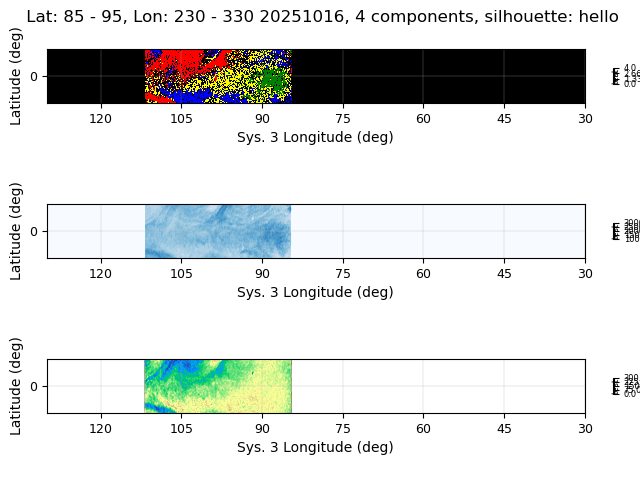
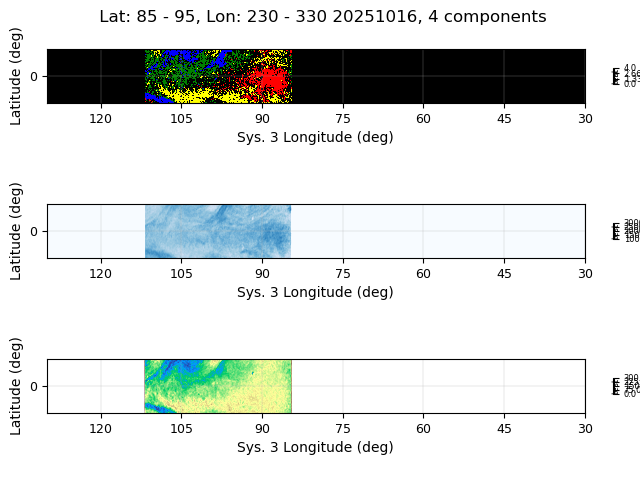
--ammend

Changed region(s): [[0.1562, 0.0, 0.9688, 0.0625], [0.2188, 0.0938, 0.4688, 0.2188], [0.0312, 0.0, 0.125, 0.0625]]

diff --git a/scripts/processes.py b/scripts/processes.py
@@ -20,30 +20,33 @@ def output_cluster_map_and_plot(date, keywords, param_ranges,
     sil_score = "hello"
     #str(round(silhouette_score(input_arr, pred), 3))
     #colors = np.random.rand(n_comp, 3)
-    colors =["red", "green", "blue", "yellow"]
-    cmap = ListedColormap(colors)
+    colors =["red", "green", "blue", "yellow", "orange", "pink"]
+    cmap = ListedColormap(colors[:n_comp])
     print("colors")
     print(colors)
 
     fig, axis = pl.subplots(2, 1)
     MP.create_cluster_map(axis[0], n_comp, pred, input_arr, subset_shape, latRng, lngRng, cmap, cm_num)
     PL.create_cluster_plot(axis[1],  keywords, input_arr, pred,  n_comp, cov_type, latRng, lngRng, cmap, cm_num)
-    fig.suptitle(f' Lat: {latRng[0]} - {latRng[1]}, Lon: {lngRng[0]} - {lngRng[1]} {date}, {n_comp} components, silhouette: {sil_score}')
+    fig.suptitle(f' Lat: {latRng[0]} - {latRng[1]}, Lon: {lngRng[0]} - {lngRng[1]} {date}, {n_comp} components')
     lat_lon_str = f'{latRng[0]}-{latRng[1]}_{lngRng[0]}-{lngRng[1]}'
     fig.savefig(f'{config["output"]}/{date}_{lat_lon_str}_{n_comp}_map_and_plot.png')
+
+
+def output_cluster_and_plots
 
 def output_cluster_map(date, keywords, param_ranges, 
                            latRng = [65, 115], lngRng = [0, 50], 
                             n_comp = 4, cov_type = "full", cm_num = 3):
     [input_arr, subset_shape] = pre.get_input_array(keywords, param_ranges, latRng, lngRng, cm_num)
-    pred = CL.create_clusters(input_arr[:, [0,1]], cov_type, n_comp)
+    pred = CL.create_clusters(input_arr[:, [0,1]], cov_type, n_comp, config["soft_clustering"])
     sil_score = str(round(silhouette_score(input_arr, pred), 3))
     #colors = np.random.rand(n_comp, 3)
-    colors =["red", "green", "blue", "yellow"]
-    cmap = ListedColormap(colors)
+    colors =["red", "green", "blue", "yellow", "orange", "pink"]
+    cmap = ListedColormap(colors[:n_comp])
     fig, axis = pl.subplots(1, 1)
     MP.create_cluster_map(axis, n_comp, pred, input_arr, subset_shape, latRng, lngRng, cmap, cm_num)
-    fig.suptitle(f' Lat: {latRng[0]} - {latRng[1]}, Lon: {lngRng[0]} - {lngRng[1]} {date}, {n_comp} components, silhouette: {sil_score}')
+    fig.suptitle(f' Lat: {latRng[0]} - {latRng[1]}, Lon: {lngRng[0]} - {lngRng[1]} {date}, {n_comp} components')
     lat_lon_str = f'{latRng[0]}-{latRng[1]}_{lngRng[0]}-{lngRng[1]}'
     fig.savefig(f'{config["output"]}/cluster_maps/spatial_map_{date}_{lat_lon_str}_{n_comp}.png')
 
@@ -54,15 +57,15 @@ def output_cluster_plot(date, keywords, param_ranges,
     
    
     [input_arr, subset_shape] = pre.get_input_array(keywords, param_ranges, latRng, lngRng, cm_num)
-    pred = CL.create_clusters(input_arr[:, [0,1]], cov_type, n_comp)
+    pred = CL.create_clusters(input_arr[:, [0,1]], cov_type, n_comp, config["soft_clustering"])
     print(pred)
     sil_score = str(round(silhouette_score(input_arr, pred), 3))
     #colors = np.random.rand(n_comp, 3)
     colors = ["red", "green", "blue", "yellow"]
-    cmap = ListedColormap(colors)
+    cmap = ListedColormap(colors[:n_comp])
     fig, axis = pl.subplots(1, 1)
     PL.create_cluster_plot(axis, keywords, input_arr, pred,  n_comp, cov_type, latRng, lngRng, cmap, cm_num)
-    fig.suptitle(f' Lat: {latRng[0]} - {latRng[1]}, Lon: {lngRng[0]} - {lngRng[1]} {date}, {n_comp} components, silhouette: {sil_score}')
+    fig.suptitle(f' Lat: {latRng[0]} - {latRng[1]}, Lon: {lngRng[0]} - {lngRng[1]} {date}, {n_comp} components')
     lat_lon_str = f'{latRng[0]}-{latRng[1]}_{lngRng[0]}-{lngRng[1]}'
     fig.savefig(f'{config["output"]}/cluster_plots/clusters_{date}_{lat_lon_str}_{cov_type}_{n_comp}_.png')
 
@@ -80,21 +83,20 @@ def create_map_comparison(date, keywords, param_ranges,
     sil_score = "hello"
 
     print("computed sil score")
-    colors = ["red", "green", "blue", "yellow"]
-    cmap = ListedColormap(colors)
+    colors =["red", "green", "blue", "yellow", "orange", "pink"]
+    cmap = ListedColormap(colors[: n_comp])
     print("start fig")
     fig, axis = pl.subplots(3, 1, constrained_layout = True)
     fig.tight_layout()
     cloud_map = pre.get_patch("PCld", latRng, lngRng)
     amm_map = pre.get_patch("NH3", latRng, lngRng)
-    print("start cluster map")
+    print("plot cluster map")
     MP.create_cluster_map(axis[0], n_comp, pred, input_arr, subset_shape, latRng, lngRng, cmap, cm_num, fig, True)
-    print("finished cluster map")
     MP.plot_patch(cloud_map, latRng, lngRng, "Blues", axis[1], 1000, 3000,  "Cloud Pressure", cm_num, fig, True)
     print("plot first patch")
     MP.plot_patch(amm_map, latRng, lngRng, "terrain_r", axis[2], 0, 300, "Ammonia", cm_num, fig, True)
     print("plot second patch")
-    fig.suptitle(f' Lat: {latRng[0]} - {latRng[1]}, Lon: {lngRng[0]} - {lngRng[1]} {date}, {n_comp} components, silhouette: {sil_score}')
+    fig.suptitle(f' Lat: {latRng[0]} - {latRng[1]}, Lon: {lngRng[0]} - {lngRng[1]} {date}, {n_comp} components')
     lat_lon_str = f'{latRng[0]}-{latRng[1]}_{lngRng[0]}-{lngRng[1]}'
     fig.savefig(f'{config["output"]}/{date}_{lat_lon_str}_{n_comp}_map_comparison.png')
     
@@ -102,8 +104,8 @@ def create_map_comparison(date, keywords, param_ranges,
 
 #output_cluster_map("20251214", ["NH3", "PCld"], [[0, 300], [1000, 3000]], 5)
 #get correct filters
-create_map_comparison("20251016", ["NH3", "PCld", "AOI", "CI"], [[100, 300], [1500,  2500], [0, 1], [0, 1]])#
-#output_cluster_map_and_plot("20251016", ["NH3", "PCld", "AOI", "CI"], [[100, 300], [1500,  2500], [0, 1], [0, 1]])
+#create_map_comparison("20251016", ["NH3", "PCld", "AOI", "CI"], [[100, 300], [1500,  2500], [0, 1], [0, 1]])#
+output_cluster_map_and_plot("20251016", ["NH3", "PCld", "AOI", "CI"], [[100, 300], [1500,  2500], [0, 1], [0, 1]], [85, 95], [230,330], 5)
 
 
 #output_cluster_map_and_plot("20251214", ["NH3", "PCld"], [[0, 300], [1000, 3000]], 5)

diff --git a/scripts/preprocessing/preprocessing.py b/scripts/preprocessing/preprocessing.py
@@ -104,7 +104,6 @@ def get_parameter_2d_array(keyword_arr):
 
     return radiances_arr'''
     radiances = get_radiances(file_name_arr)
-    print(radiances)
     return radiances
 
 def get_map_shape(keyword, latLims, longLims):
@@ -262,8 +261,7 @@ def get_input_array(keywords, param_ranges,
     #pix_arr = np.flipud(pix_arr)
     pix_arr = get_mapped_pix_arr(pix_arr)
     pix_arr = get_filtered_pix_arr(param_ranges, pix_arr)
-    print("pix arr")
-    print(pix_arr)
+  
     return [pix_arr, subset_shape]
     
 

diff --git a/scripts/clustering/clusters.py b/scripts/clustering/clusters.py
@@ -15,7 +15,8 @@ from sklearn.preprocessing import StandardScaler
 
 
 def create_clusters(pix_arr, cov_type, n_components, is_soft_clustering):
-    threshold = 0.7
+    threshold = 0.75
+    print("Clustering with probability threshold " + str(threshold))
     gmm_model = GMM(n_components=n_components, covariance_type=cov_type)
     pipe = Pipeline([('scaler', StandardScaler()), ('gmm', gmm_model)])
     print("fitting model...")
